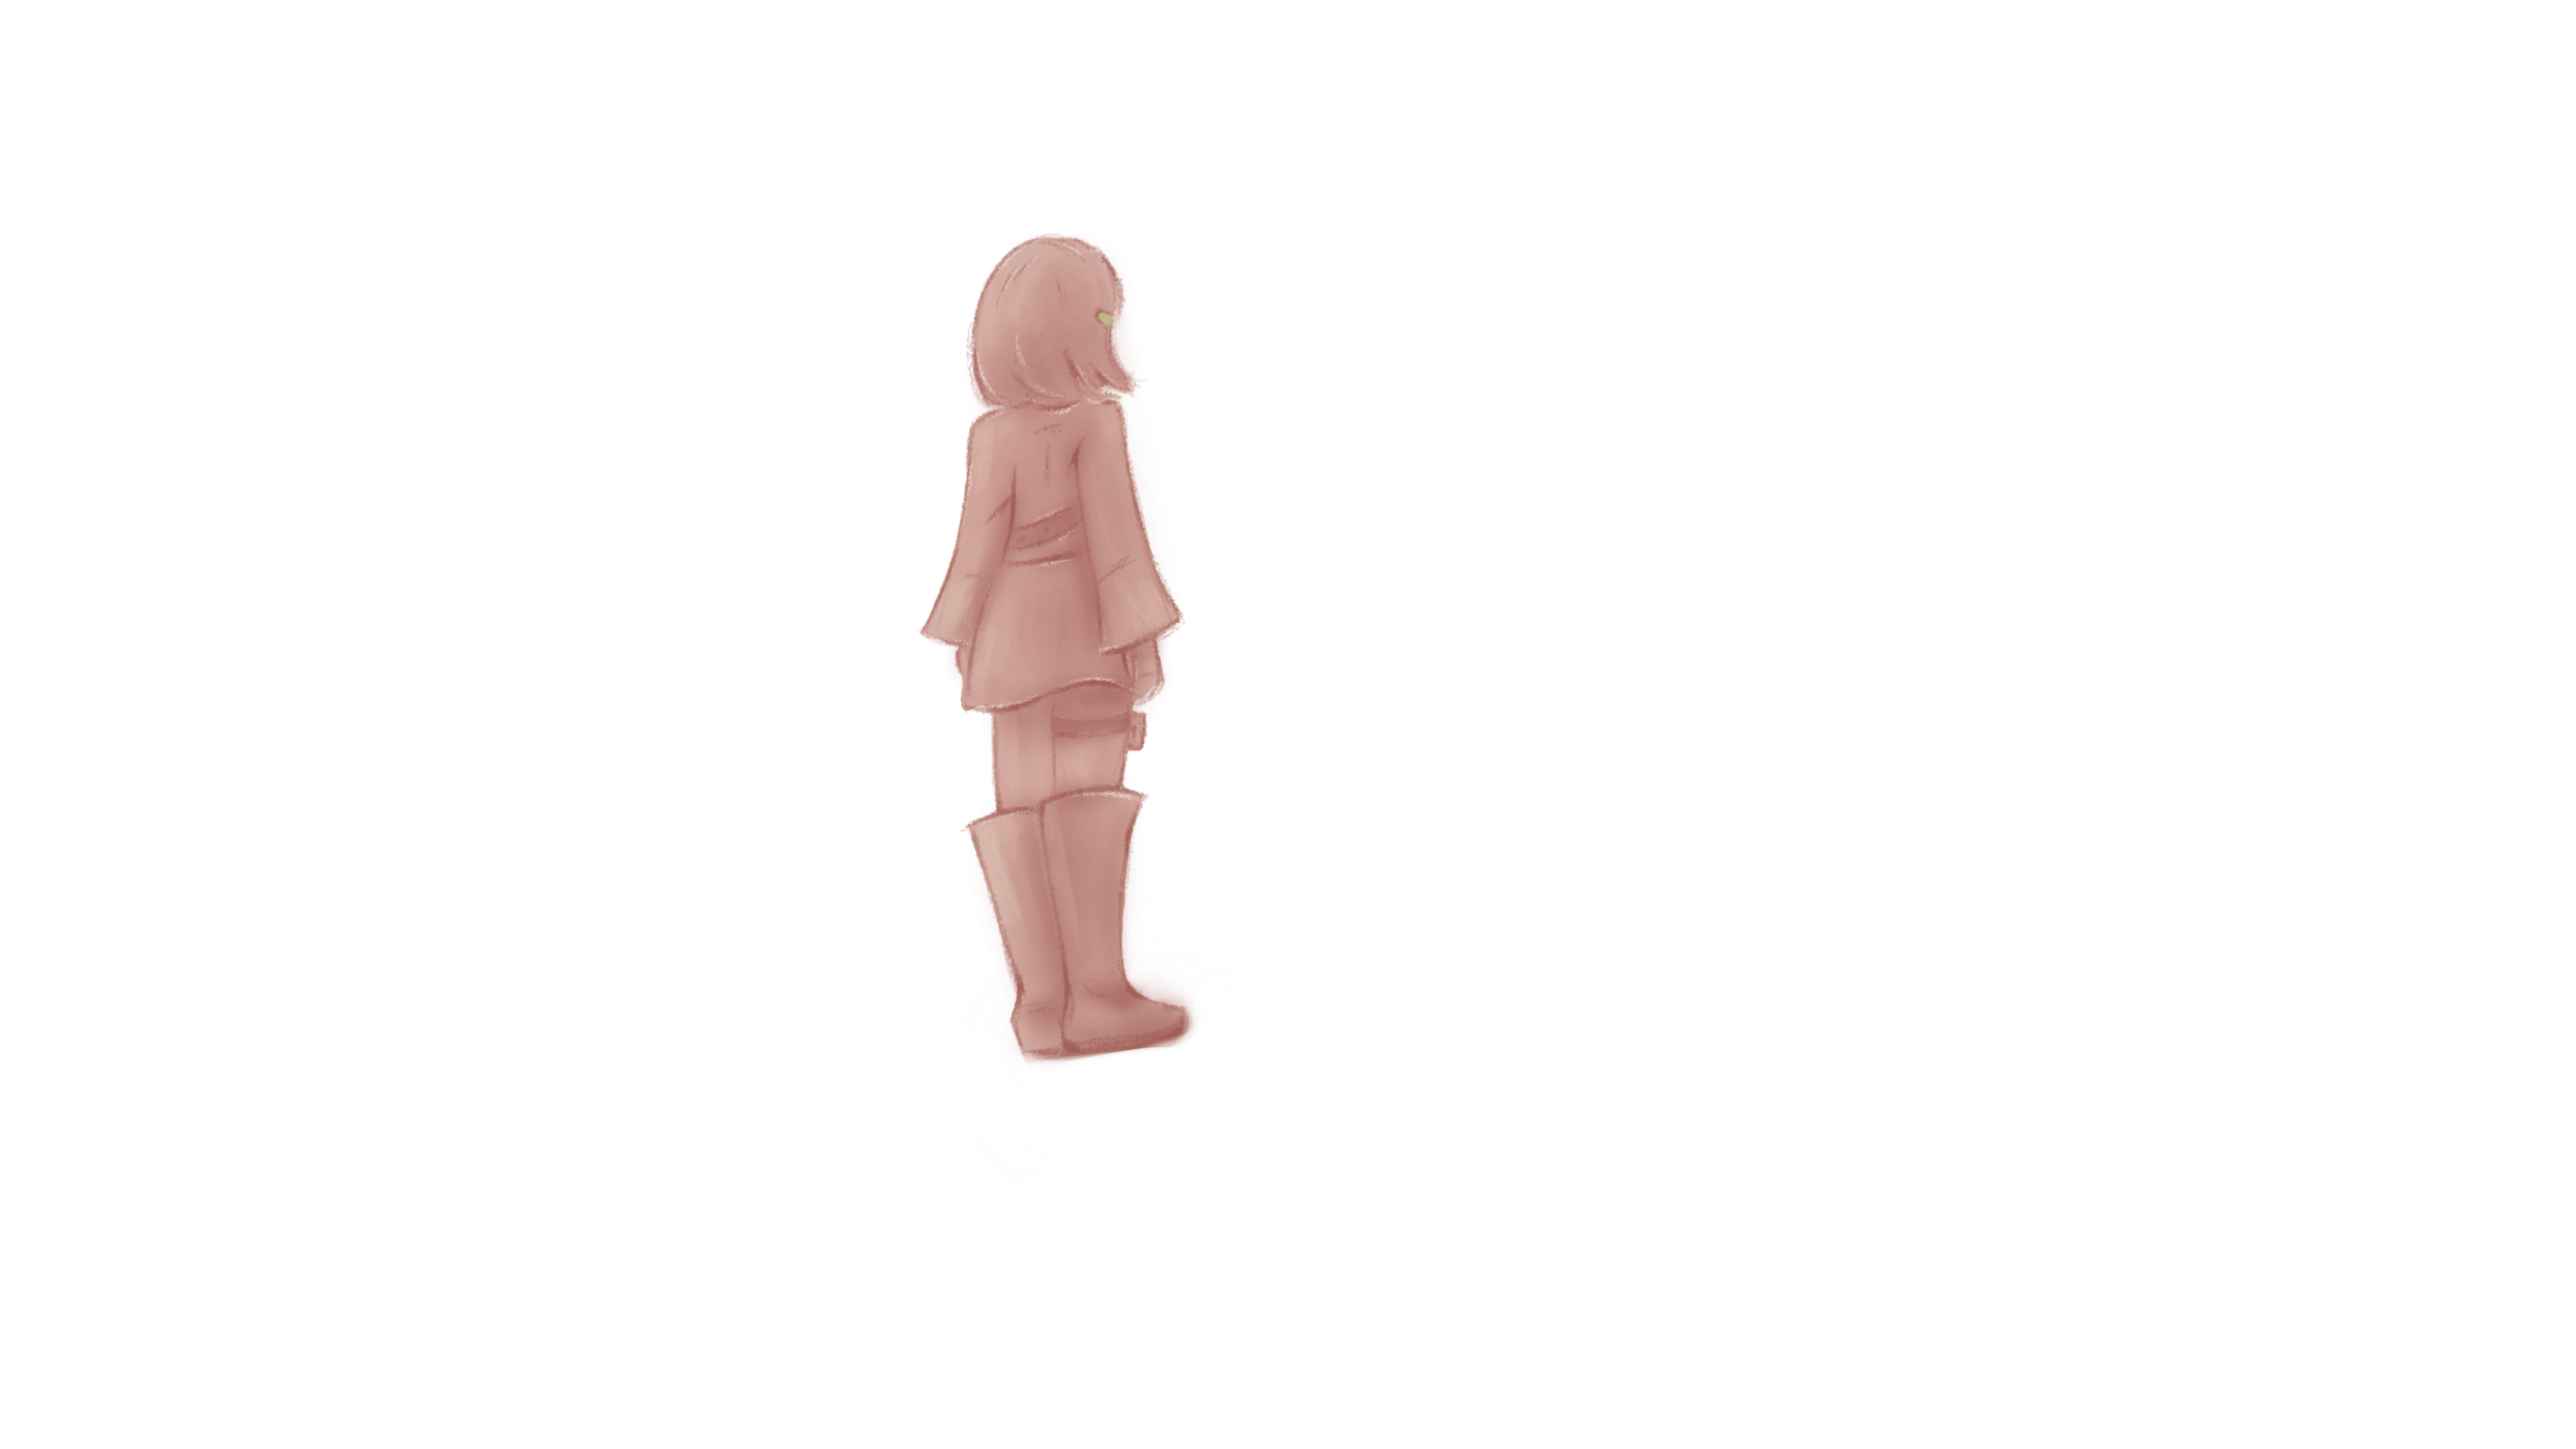
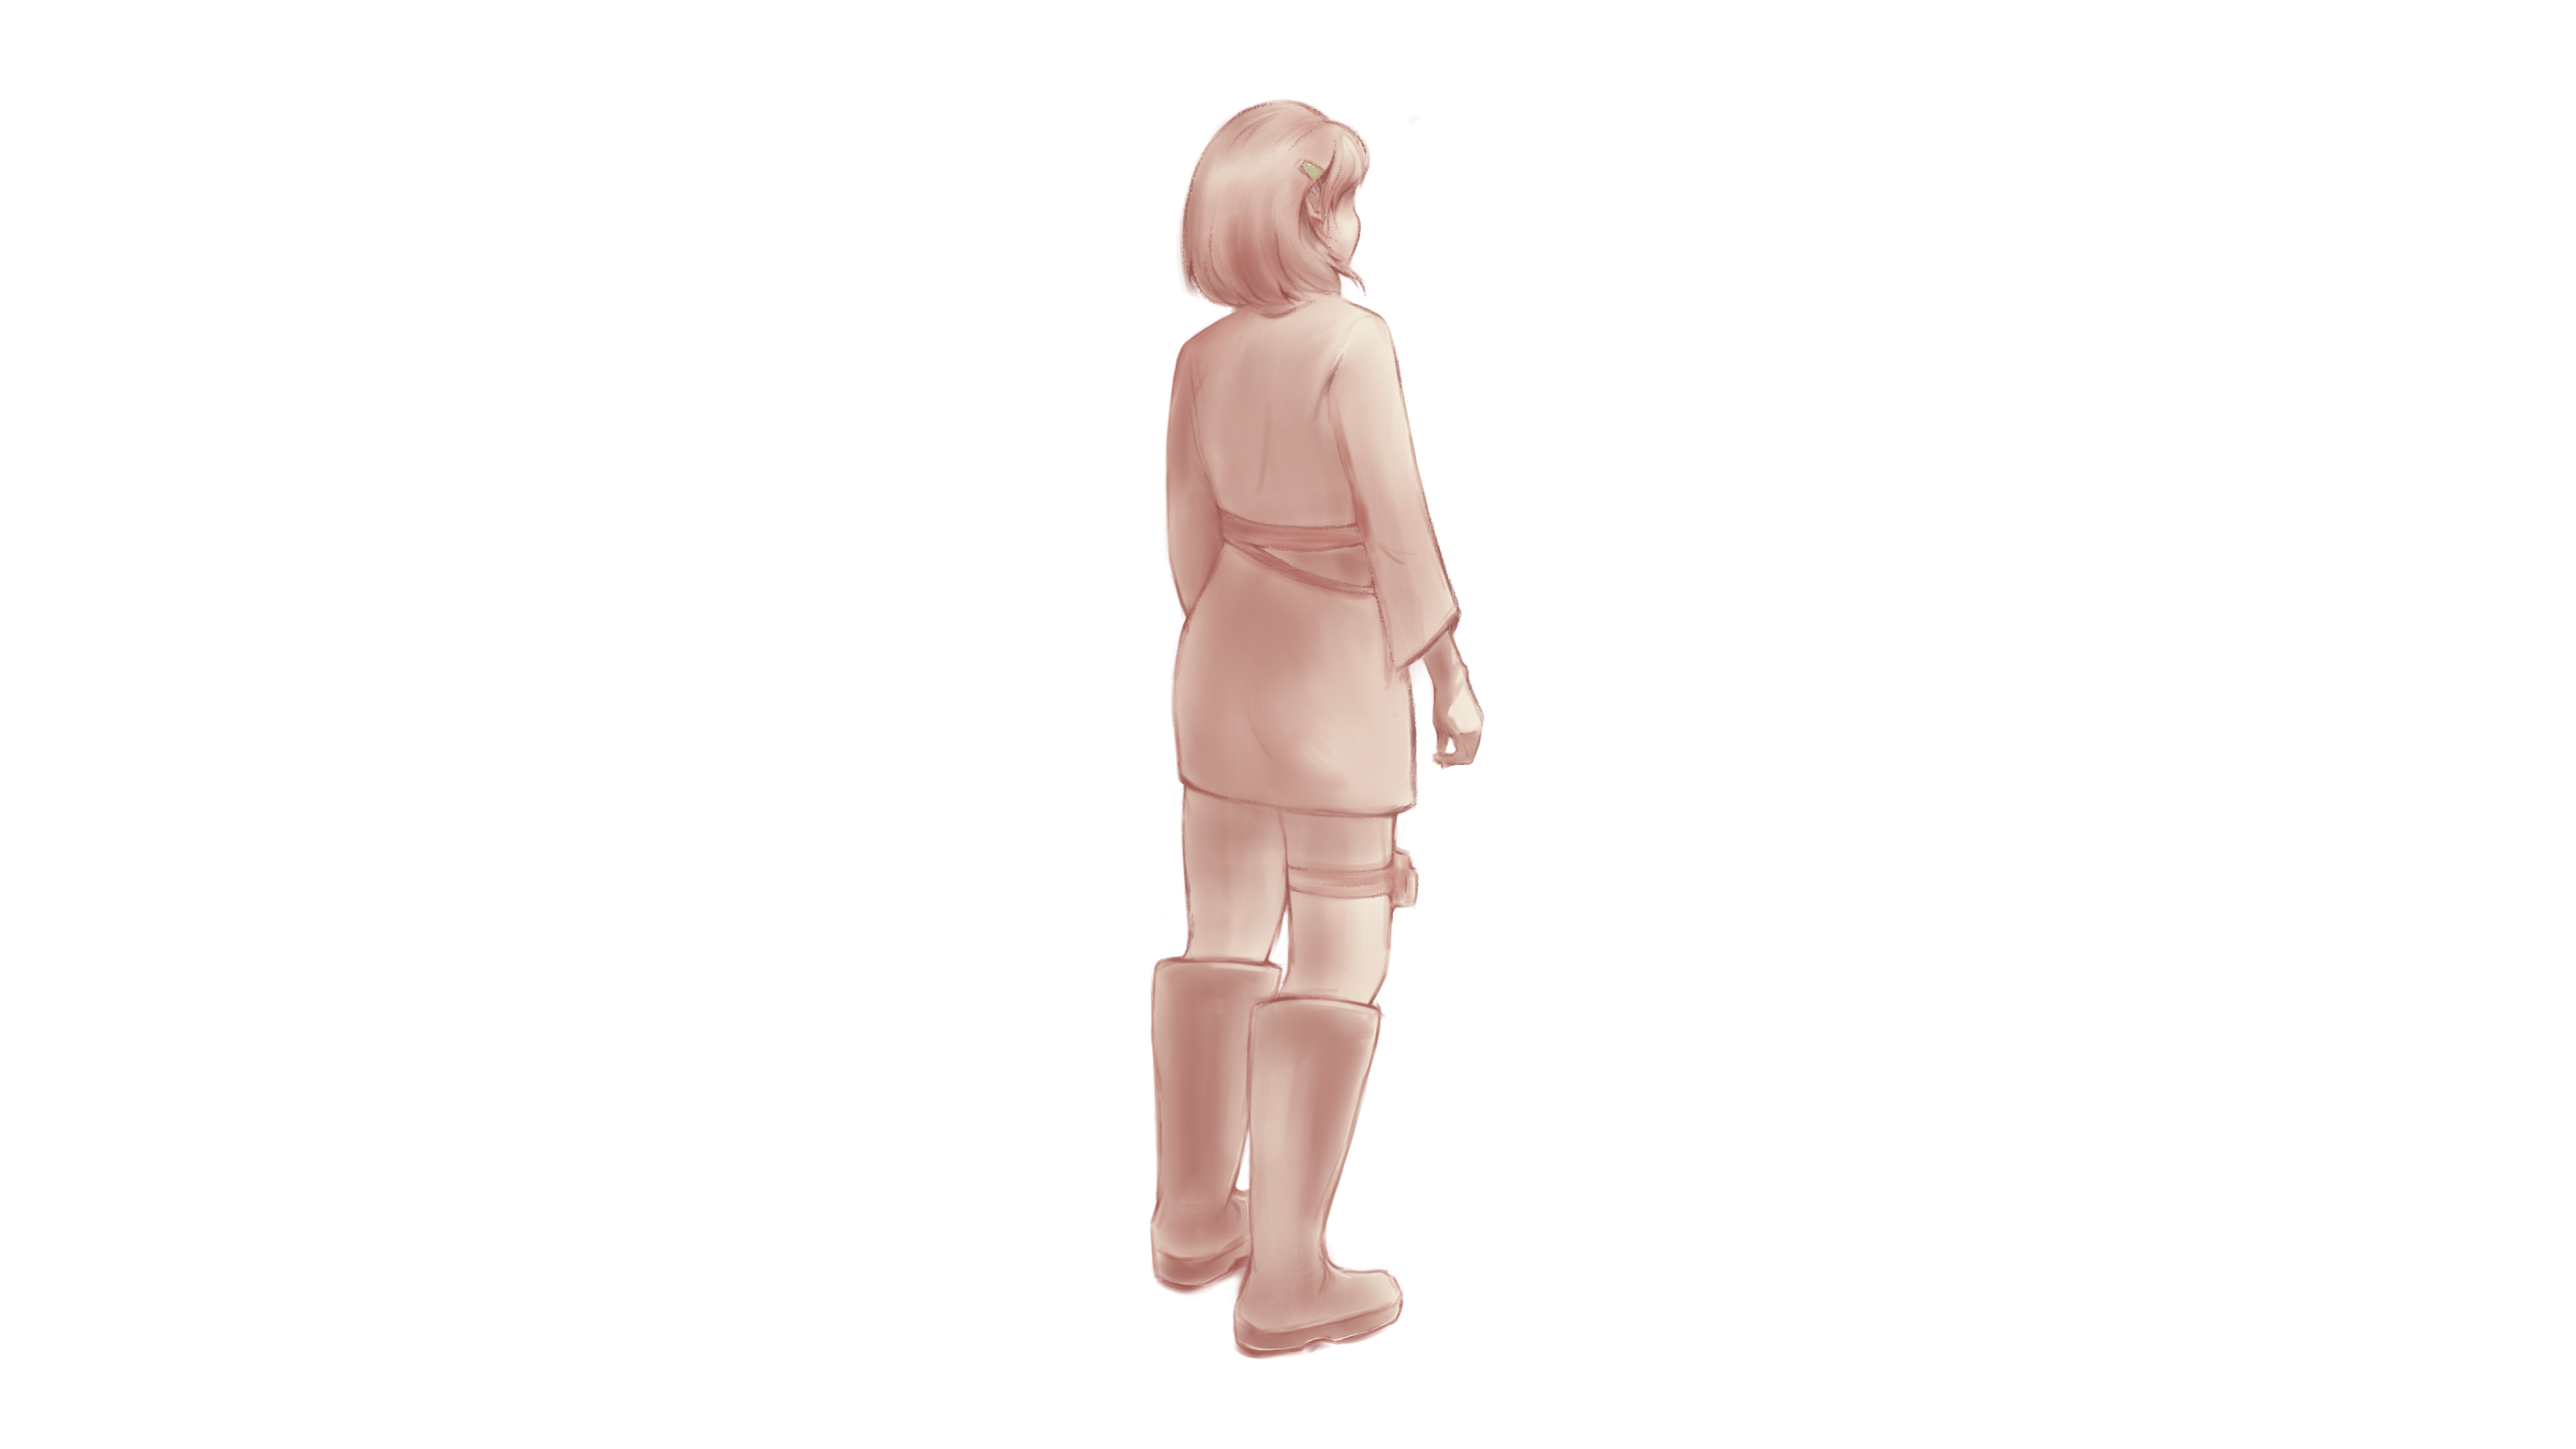
Introduce current time, which will be used to track the wake up time and used in WakeUpScene. Change the character sprite and sea bottom sprite.

Changed region(s): [[0.341, 0.0616, 0.589, 0.955]]

diff --git a/Assets/Scripts/11_GameLevel3HiddenScene/GameLevel3HiddenSceneManager.cs b/Assets/Scripts/11_GameLevel3HiddenScene/GameLevel3HiddenSceneManager.cs
@@ -102,8 +102,14 @@ public class GameLevel3HiddenSceneManager : MonoBehaviour
         }
         else
         {
-            Debug.Log("[Game Leve 1] Puzzle failed.");
-            GoToNextScene("TimeOut");
+            Debug.Log("[Game Leve 3 Hidden] Puzzle failed.");
+            StartCoroutine(PlayFailedAnimationCoroutine(() =>
+            {
+                // Set the current time to 5AM
+                GameManager.Instance.currentTime = "5AM";
+                // After the animation is finished, go to the next scene
+                GoToNextScene("TimeOut");
+            }));
         }
     }
 
@@ -285,6 +291,43 @@ public class GameLevel3HiddenSceneManager : MonoBehaviour
         // Wait for a few seconds
         yield return new WaitForSeconds(1.0f);
 
+        // Fade in the black screen
+        bool isFadeInComplete = false;
+        if (blackScreenImage != null)
+        {
+            blackScreenImage.GetComponent<BlackScreenController>()
+                ?.SceneEndFadeIn((() => { isFadeInComplete = true; }));
+        }
+
+        // Wait for the fade-in to complete
+        yield return new WaitUntil(() => isFadeInComplete);
+
+        // Call the onComplete action after the animation is finished
+        onComplete?.Invoke();
+    }
+    
+    private IEnumerator PlayFailedAnimationCoroutine(System.Action onComplete)
+    {
+        // Fade out the black screen
+        bool isFadeOutComplete = false;
+        float fadeDuration = 1.0f;
+        if (blackScreenImage != null)
+        {
+            blackScreenImage.SetActive(true);
+            blackScreenImage.GetComponent<BlackScreenController>()
+                ?.StartFadeOut(fadeDuration, (() => { isFadeOutComplete = true; }));
+        }
+
+        // Wait for the fade-out to complete
+        yield return new WaitUntil(() => isFadeOutComplete);
+        Debug.Log("Fade out complete");
+        blackScreenImage.SetActive(false);
+
+        // Play dialogue saying nothing happened
+
+        // Wait a short time before starting the next animation
+        yield return new WaitForSeconds(1.0f);
+        
         // Fade in the black screen
         bool isFadeInComplete = false;
         if (blackScreenImage != null)

diff --git a/Assets/Scripts/7_WakeUpScene/WakeUpSceneManager.cs b/Assets/Scripts/7_WakeUpScene/WakeUpSceneManager.cs
@@ -8,6 +8,7 @@ public class WakeUpSceneManager : MonoBehaviour
     private int currentLevelIndex;
     private int numOfCompletedLevel;
     private int numOfCompletedHiddenLevel;
+    private string currentTime;
     void Start()
     {
         currentLevelIndex = GameManager.Instance.currentLevelIndex;
@@ -18,6 +19,8 @@ public class WakeUpSceneManager : MonoBehaviour
         
         numOfCompletedHiddenLevel = GameManager.Instance.numOfCompletedHiddenLevel;
         Debug.Log($"Completed {numOfCompletedHiddenLevel} hidden levels");
+        
+        currentTime = GameManager.Instance.currentTime;
 
         // Bind the continue button to the ContinueGame method
         if (continueButton != null)
@@ -28,16 +31,24 @@ public class WakeUpSceneManager : MonoBehaviour
 
     void ContinueGame()
     {
-        if (currentLevelIndex == 1)
+        if (currentTime == "1AM")
         {
-            GameManager.Instance.GoToNextScene("AtLevel1");
+            GameManager.Instance.GoToNextScene("1AM");
         }
-        else if (currentLevelIndex == 2)
+        else if (currentTime == "3AM")
+        {
+            GameManager.Instance.GoToNextScene("3AM");
+        }
+        else if (currentTime == "5AM")
+        {
+            GameManager.Instance.GoToNextScene("5AM");
+        }
+        else if (currentTime == "7AM")
         {
             // At the last level of the game, for now.
             // Will loop back to DayScene, but reset the game state first.
             GameManager.Instance.ResetForNewLoop();
-            GameManager.Instance.GoToNextScene("AtLevel2");
+            GameManager.Instance.GoToNextScene("7AM");
         }
     }
 }

diff --git a/Assets/Scripts/10_GameLevel3Scene/GameLevel3SceneManager.cs b/Assets/Scripts/10_GameLevel3Scene/GameLevel3SceneManager.cs
@@ -106,6 +106,8 @@ public class GameLevel3SceneManager : MonoBehaviour
                 // Play the post-puzzle animation
                 PlayPostPuzzleAnimation(stage.id, () =>
                 {
+                    // Set the current time to 7AM
+                    GameManager.Instance.currentTime = "7AM";
                     // After the animation is finished, go to the next scene
                     GoToNextScene("NormalSolved");
                 });
@@ -126,6 +128,8 @@ public class GameLevel3SceneManager : MonoBehaviour
                 // Play the post-puzzle animation
                 PlayPostPuzzleAnimation(stage.id, () =>
                 {
+                    // Set the current time to 5AM
+                    GameManager.Instance.currentTime = "5AM";
                     // After the animation is finished, go to the next scene
                     GoToNextScene("WrongSolved");
                 });
@@ -136,6 +140,8 @@ public class GameLevel3SceneManager : MonoBehaviour
             Debug.Log("[Game Level 3] Puzzle failed.");
             StartCoroutine(PlayFailedAnimationCoroutine(() =>
             {
+                // Set the current time to 5AM
+                GameManager.Instance.currentTime = "5AM";
                 // After the animation is finished, go to the next scene
                 GoToNextScene("TimeOut");
             }));

diff --git a/Assets/Scripts/5_GameLevel1Scene/GameLevel1SceneManager.cs b/Assets/Scripts/5_GameLevel1Scene/GameLevel1SceneManager.cs
@@ -146,6 +146,8 @@ public class GameLevel1SceneManager : MonoBehaviour
                 // Play the post-puzzle animation
                 PlayPostPuzzleAnimation(stage.id, () =>
                 {
+                    // Set the current time to 1AM
+                    GameManager.Instance.currentTime = "1AM";
                     // After the animation is finished, go to the next scene
                     GoToNextScene("WrongSolved");
                 });
@@ -157,8 +159,11 @@ public class GameLevel1SceneManager : MonoBehaviour
             // Play the failed animation
             StartCoroutine(PlayFailedAnimationCoroutine(() =>
             {
+                // Set the current time to 1AM
+                GameManager.Instance.currentTime = "1AM";
                 // After the animation is finished, go to the next scene
                 GoToNextScene("TimeOut");
+                
             }));
         }
     }

diff --git a/Assets/Scripts/8_GameLeve2Scene/GameLevel2SceneManager.cs b/Assets/Scripts/8_GameLeve2Scene/GameLevel2SceneManager.cs
@@ -136,6 +136,8 @@ public class GameLevel2SceneManager : MonoBehaviour
                 // Play the post-puzzle animation
                 PlayPostPuzzleAnimation(stage.id, () =>
                 {
+                    // Set the current time to 3AM
+                    GameManager.Instance.currentTime = "3AM";
                     // After the animation is finished, go to the next scene
                     GoToNextScene("WrongSolved");
                 });
@@ -146,6 +148,8 @@ public class GameLevel2SceneManager : MonoBehaviour
             Debug.Log("[Game Level 2] Puzzle failed.");
             StartCoroutine(PlayFailedAnimationCoroutine(() =>
             {
+                // Set the current time to 3AM
+                GameManager.Instance.currentTime = "3AM";
                 // After the animation is finished, go to the next scene
                 GoToNextScene("TimeOut");
             }));

diff --git a/Assets/Scripts/GameManager.cs b/Assets/Scripts/GameManager.cs
@@ -39,6 +39,8 @@ public class GameManager : MonoBehaviour
     public int numOfCompletedLevelLastLoop { get; private set; } = 0; // Number of completed level in the last loop
     public int numOfCompletedHiddenLevelLastLoop { get; private set; } = 0; // Number of completed hidden level in the last loop
     
+    public string currentTime = "1AM"; // Current time in the game, used by Wake Up Scene
+    
     [SerializeField] public Vector3 defaultStartPuzzelButtonPosition = new Vector3(750f, -350f, 0f); // Start puzzle button position in the scene
     
     public void IncrementCompletedLevel()
@@ -108,6 +110,9 @@ public class GameManager : MonoBehaviour
         
         // Reset the current scene index
         currentLevelIndex = 0;
+        
+        // Reset the current time
+        currentTime = "1AM";
     }
     
     private static void SetupInstance()

diff --git a/Assets/Scripts/6_GameLevel1HiddenScene/GameLevel1HiddenSceneManager.cs b/Assets/Scripts/6_GameLevel1HiddenScene/GameLevel1HiddenSceneManager.cs
@@ -124,6 +124,8 @@ public class GameLevel1SceneHiddenManager : MonoBehaviour
             Debug.Log("[Game Level 1 Hidden] Puzzle failed.");
             StartCoroutine(PlayFailedAnimationCoroutine(() =>
             {
+                // Set the current time to 1AM
+                GameManager.Instance.currentTime = "1AM";
                 // After the animation is finished, go to the next scene
                 GoToNextScene("TimeOut");
             }));

diff --git a/Assets/Scripts/9_GameLevel2HiddenScene/GameLevel2HiddenSceneManager.cs b/Assets/Scripts/9_GameLevel2HiddenScene/GameLevel2HiddenSceneManager.cs
@@ -106,6 +106,8 @@ public class GameLevel2HiddenSceneManager : MonoBehaviour
             Debug.Log("[Game Level 2 Hidden] Puzzle failed.");
             StartCoroutine(PlayFailedAnimationCoroutine(() =>
             {
+                // Set the current time to 3AM
+                GameManager.Instance.currentTime = "3AM";
                 // After the animation is finished, go to the next scene
                 GoToNextScene("TimeOut");
             }));
